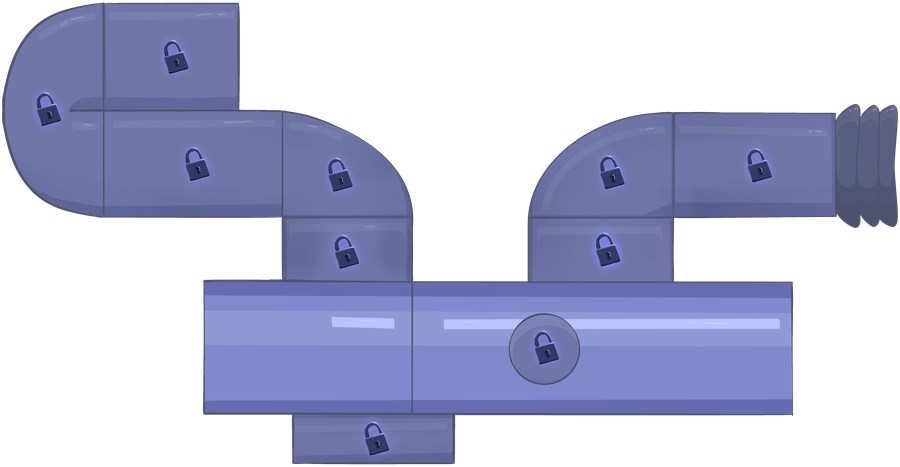
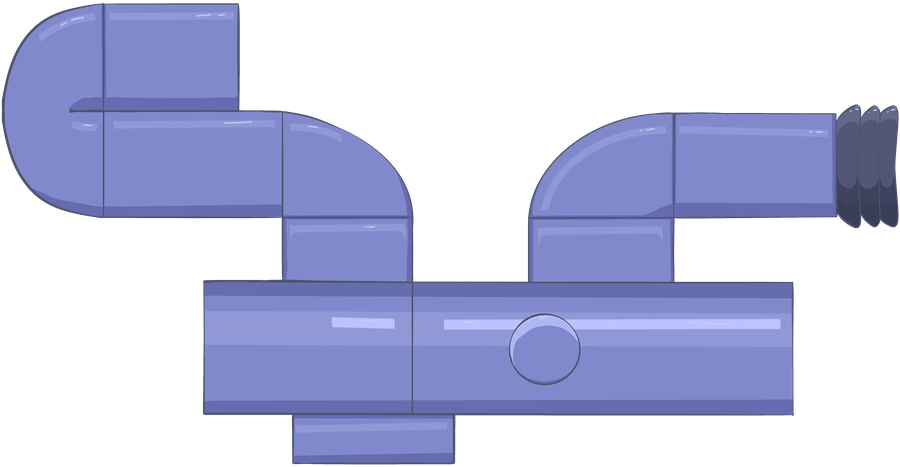
Replaced map

diff --git a/script.js b/script.js
@@ -336,7 +336,7 @@ const SCENE_SCRIPT = [
   // the higher-x side) — matching targetX to Cameron's actual x:200 spot means Ester stops PROXIMITY_DIST (45px) short
   // of her, the same gap Sam gets by default in scene 1, rather than the old targetX:160 which put that stopping edge
   // at just 205 — 5px from Cameron, i.e. basically on top of her.
-  {id:"sc4_walk_to_aerospace", type:"control", action:"free_roam", minX:20, maxX:2126.49 /* LAB_MAX_X — duplicated as a literal since this array is defined before that const */, targetX:200, next:"sc4_arrive_aerospace", showSprites:["ester","cameron"], positions:{cameron:200}, reveal:["aerospace-bg"], find:"Cameron"},
+  {id:"sc4_walk_to_aerospace", type:"control", action:"free_roam", minX:20, maxX:2126.49 /* LAB_MAX_X — duplicated as a literal since this array is defined before that const */, targetX:200, next:"sc4_arrive_aerospace", showSprites:["ester","cameron"], positions:{cameron:200}, reveal:["aerospace-bg","door-aero-left","door-aero-right"], find:"Cameron"},
 
   // autoAdvanceMs: Ester's greeting plays on its own once she's close enough to Cameron, instead of needing an extra
   // space/click right after the walk-up.
@@ -956,6 +956,95 @@ function roomIndexForX(x) {
   return 0;
 }
 
+// Each room's own door, at its left end and right end (rendered in
+// index.html as #door-<room>-<side>, sized/positioned below). Doors sit a
+// little inside their room's own art border, not flush against it —
+// clampScrollForRoom stops the camera from scrolling past a room's own
+// min/max, so a door placed exactly on that pixel would spend the whole
+// final stretch of the walk pinned to the screen's own edge (the camera
+// can't scroll any further, so the door stops moving in frame while Ester
+// keeps walking toward it) instead of reading as a fixture inside the room.
+// DOOR_WALL_CLEARANCE below keeps it far enough from the true edge to stay
+// clear of that clamp. The two interior doorways (aerospace/main and lab/main) end
+// up as a matched pair, one door on each side, close together near the
+// seam between the rooms' background art. The outer two doors (aerospace's
+// far left, lab's far right) are dead ends with nothing beyond them.
+const DOOR_HEIGHT = 80; // smaller than the room itself, but big enough to actually read as a door
+const DOOR_ASPECT = 74 / 933; // door_closed.png's own width:height ratio
+const DOOR_WIDTH = DOOR_HEIGHT * DOOR_ASPECT;
+const DOOR_BOTTOM = 20; // raised above the floor line so it clears the room art's own rounded bottom corner instead of cutting into it
+const DOOR_STEP_IN = 8; // spawn this far past the new room's own door, so arriving there doesn't immediately re-trigger a walk back through it
+
+// The three room backgrounds aren't bordered consistently — aerospace_room.jpg,
+// main_room.jpg and nuclear_room.jpg each bake in their own decorative gray
+// margin before the actual wall content starts, measured (in native source-image
+// px, sampled at each image's vertical center to stay clear of the rounded-corner
+// curve near top/bottom) as: aerospace ~48px left/~25px right, main a clean
+// ~61px both sides, lab/nuclear ~0px (its art runs flush to the image edge on
+// the flat sides — only the very top/bottom corners round off). A single flat
+// world-space inset from the room seam therefore looked flush in main (which
+// already has a big built-in margin) but noticeably closer to the wall in lab
+// (which has none). ROOM_ART_BORDER_PX compensates so every door sits the same
+// DOOR_WALL_CLEARANCE past its own room's *actual* depicted wall, not just the
+// same distance from the abstract world-x seam.
+const ROOM_ART_SCALE = 0.125; // native source px -> world/css px, the same ratio for all three room backgrounds
+const ROOM_ART_BORDER_PX = [
+  { left: 48, right: 25 }, // aerospace_room.jpg
+  { left: 61, right: 61 }, // main_room.jpg
+  { left: 0, right: 0 },   // nuclear_room.jpg
+];
+const DOOR_WALL_CLEARANCE = 8; // world-space gap to leave past each room's own wall content, on top of that room's own baked-in border
+
+// Each room's own door positions — ROOMS[i].min/max nudged inward by that
+// room's own wall clearance. Reaching either one is what doorCrossing() below
+// treats as "at the door."
+const ROOM_DOORS = ROOMS.map((r, i) => ({
+  left: r.min + DOOR_WALL_CLEARANCE + ROOM_ART_BORDER_PX[i].left * ROOM_ART_SCALE,
+  right: r.max - DOOR_WALL_CLEARANCE - ROOM_ART_BORDER_PX[i].right * ROOM_ART_SCALE,
+}));
+
+// Positions and sizes the six door images in the DOM from the constants
+// above (centered on their ROOM_DOORS anchor), so their placement can't
+// drift out of sync with ROOMS/WORLD_WIDTH.
+[
+  { id: "door-aero-left", x: ROOM_DOORS[0].left },
+  { id: "door-aero-right", x: ROOM_DOORS[0].right },
+  { id: "door-main-left", x: ROOM_DOORS[1].left },
+  { id: "door-main-right", x: ROOM_DOORS[1].right },
+  { id: "door-lab-left", x: ROOM_DOORS[2].left },
+  { id: "door-lab-right", x: ROOM_DOORS[2].right },
+].forEach(({ id, x }) => {
+  const el = $("#" + id);
+  el.style.left = (x - DOOR_WIDTH / 2) + "px";
+  el.style.bottom = DOOR_BOTTOM + "px";
+  el.style.width = DOOR_WIDTH + "px";
+  el.style.height = DOOR_HEIGHT + "px";
+});
+
+// Checks whether Ester (moving in direction dx, currently in room
+// S.currentRoom) has reached her current room's own door at x. Returns
+// {room, x} to transition to if so — landing just past the new room's own
+// door — or null if she hasn't reached one yet. The freeRoamMinX/MaxX check
+// mirrors the guard the old boundary-crossing code got for free from
+// clampScrollForRoom: some story beats (e.g. before Scene 4 reveals the
+// aerospace department) deliberately keep the walkable range short of a
+// door so that room can't be entered early, even though its own door sits
+// a little inside the reachable range's edge.
+function doorCrossing(x, dx) {
+  if (dx > 0 && S.currentRoom < ROOMS.length - 1) {
+    const nextRoom = ROOM_DOORS[S.currentRoom + 1];
+    if (x >= ROOM_DOORS[S.currentRoom].right && freeRoamMaxX >= nextRoom.left) {
+      return { room: S.currentRoom + 1, x: nextRoom.left + DOOR_STEP_IN };
+    }
+  } else if (dx < 0 && S.currentRoom > 0) {
+    const prevRoom = ROOM_DOORS[S.currentRoom - 1];
+    if (x <= ROOM_DOORS[S.currentRoom].left && freeRoamMinX <= prevRoom.right) {
+      return { room: S.currentRoom - 1, x: prevRoom.right - DOOR_STEP_IN };
+    }
+  }
+  return null;
+}
+
 // Clamps the camera to stay within one room's own span so it never shows
 // two rooms' art at once. A room no wider than the viewport simply doesn't
 // scroll (all three rooms are wider than the viewport now, but the check
@@ -1160,9 +1249,9 @@ function sceneAnimLoop(ts) {
     if (moveKeys.right) dx += 1;
     if (dx !== 0) {
       const newX = Math.max(freeRoamMinX, Math.min(freeRoamMaxX, S.playerX + dx * PLAYER_MOVE_SPEED * dt / 1000));
-      const newRoom = roomIndexForX(newX);
-      if (newRoom !== S.currentRoom) {
-        beginRoomTransition(newX, newRoom, dx < 0);
+      const crossing = doorCrossing(newX, dx);
+      if (crossing) {
+        beginRoomTransition(crossing.x, crossing.room, dx < 0);
         requestAnimationFrame(sceneAnimLoop);
         return; // room fade owns the next update; skip this frame's normal movement/proximity logic
       }

diff --git a/index.html b/index.html
@@ -124,6 +124,22 @@
           <img id="aerospace-bg" class="hidden" src="./assets/rooms/aerospace_room.jpg" alt="">
           <img id="scene-main-bg" src="./assets/rooms/main_room.jpg" alt="">
           <img id="scene-bg" src="./assets/rooms/nuclear_room.jpg" alt="">
+          <!-- Room doors: one at each end of each of the station's three rooms,
+               sized and positioned by script.js (see DOOR_HEIGHT/DOOR_WIDTH/
+               ROOM_DOORS right after ROOMS) a little inside that room's own art
+               border — not flush against it, so the camera's own scroll clamp
+               (clampScrollForRoom) doesn't pin the door to the screen's edge.
+               The two doorways between rooms (aerospace/main and main/lab) get
+               a door on each side, close together near the seam — reaching
+               either one is also where doorCrossing() in script.js triggers the
+               walk into the next room. The aerospace-side doors stay hidden
+               until sc4_walk_to_aerospace reveals them, matching #aerospace-bg. -->
+          <img id="door-aero-left" class="room-door hidden" src="./assets/rooms/door_closed.png" alt="">
+          <img id="door-aero-right" class="room-door hidden" src="./assets/rooms/door_closed.png" alt="">
+          <img id="door-main-left" class="room-door" src="./assets/rooms/door_closed.png" alt="">
+          <img id="door-main-right" class="room-door" src="./assets/rooms/door_closed.png" alt="">
+          <img id="door-lab-left" class="room-door" src="./assets/rooms/door_closed.png" alt="">
+          <img id="door-lab-right" class="room-door" src="./assets/rooms/door_closed.png" alt="">
           <div id="scene-sprite-sam" class="scene-sprite facing-left" data-char="sam"></div>
           <div id="scene-sprite-jerry" class="scene-sprite hidden" data-char="jerry"></div>
           <div id="scene-sprite-ester" class="scene-sprite" data-char="ester"></div>

diff --git a/style.css b/style.css
@@ -428,6 +428,20 @@ button:focus-visible{outline:2px solid var(--yellow);}
   width:841.49px;height:341.28px;
   image-rendering:auto;
 }
+/* Room doors — one at each end of each room, a little inside that room's own
+   art border (see ROOM_ART_BORDER_PX/DOOR_WALL_CLEARANCE in script.js — keeps
+   the door clear of clampScrollForRoom's scroll limit so it doesn't end up
+   pinned to the screen's own edge, and compensates for each room's own art
+   having a differently-sized baked-in border). left/bottom/width/height are
+   all set from script.js (DOOR_HEIGHT/DOOR_WIDTH/DOOR_BOTTOM/ROOM_DOORS), so
+   this only needs the shared positioning. Raised above the floor line (rather
+   than flush with it) so it clears the room art's own rounded bottom corner.
+   Sits above the room backgrounds but below the sprites, so a character can
+   walk in front. */
+.room-door{
+  position:absolute;
+  z-index:5;
+}
 .scene-sprite{
   position:absolute;
   image-rendering:pixelated;
